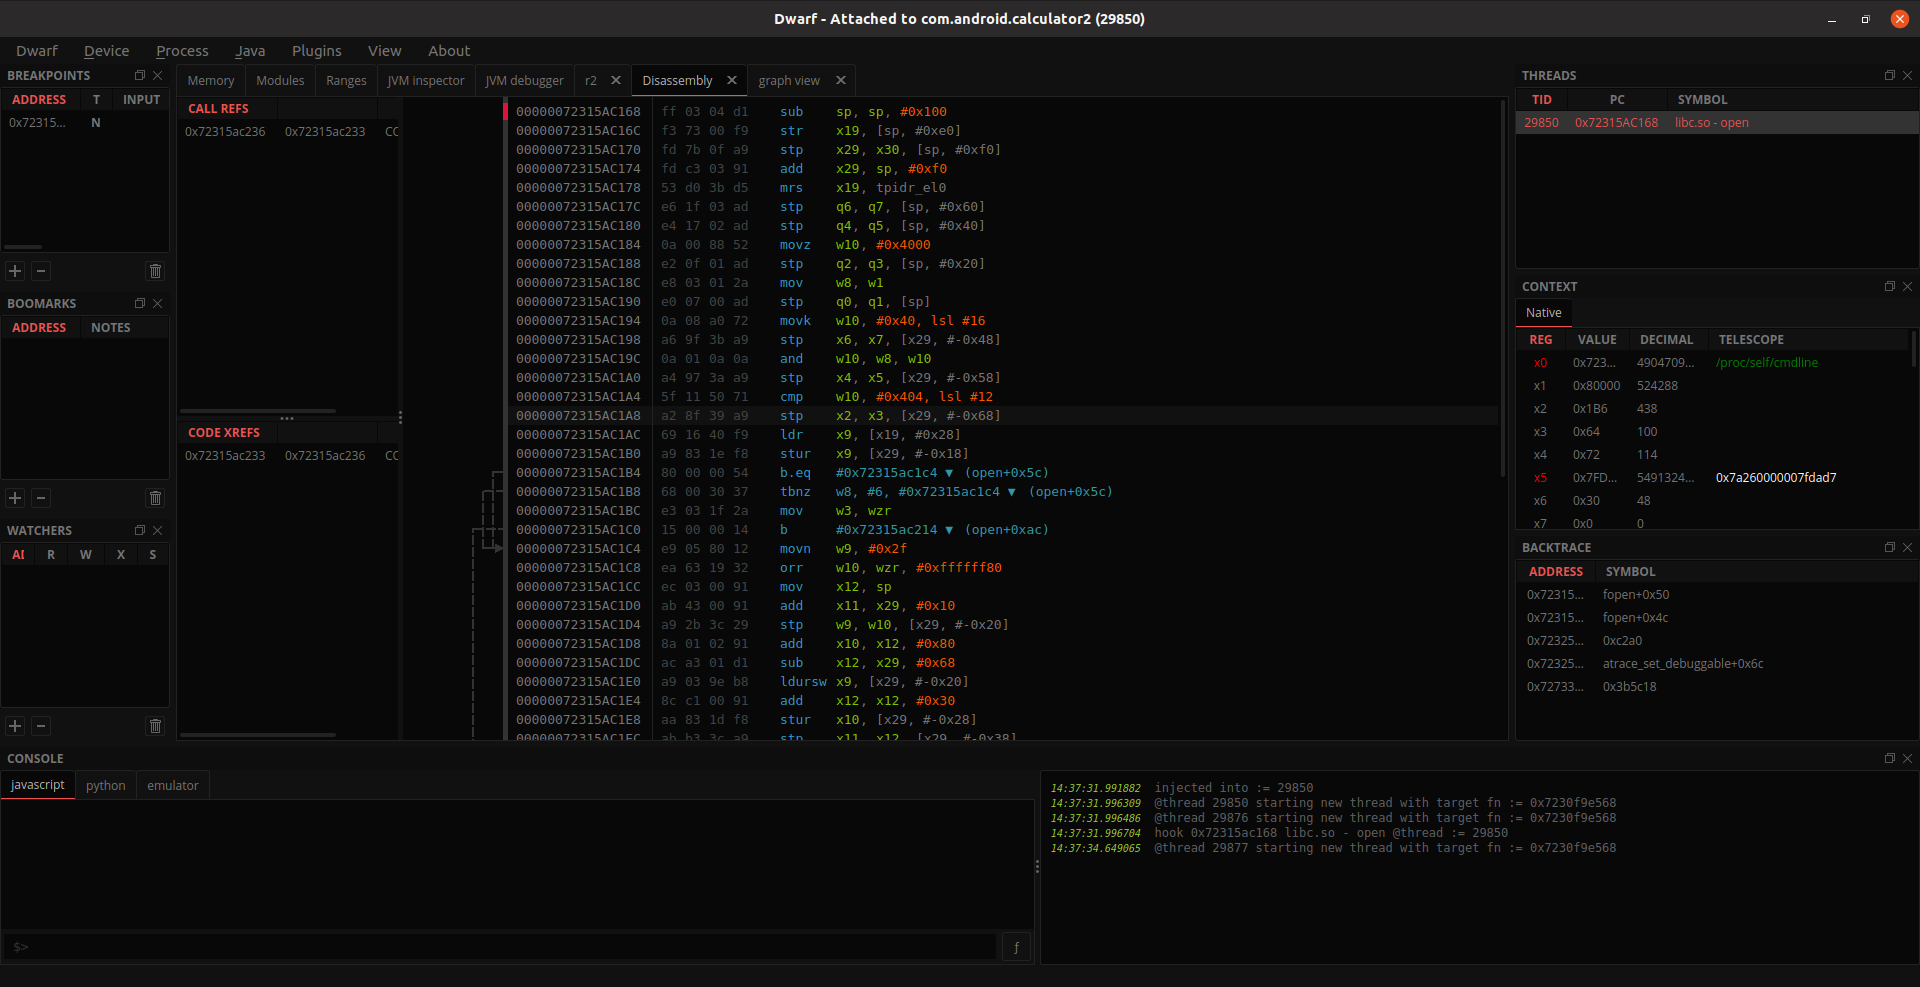
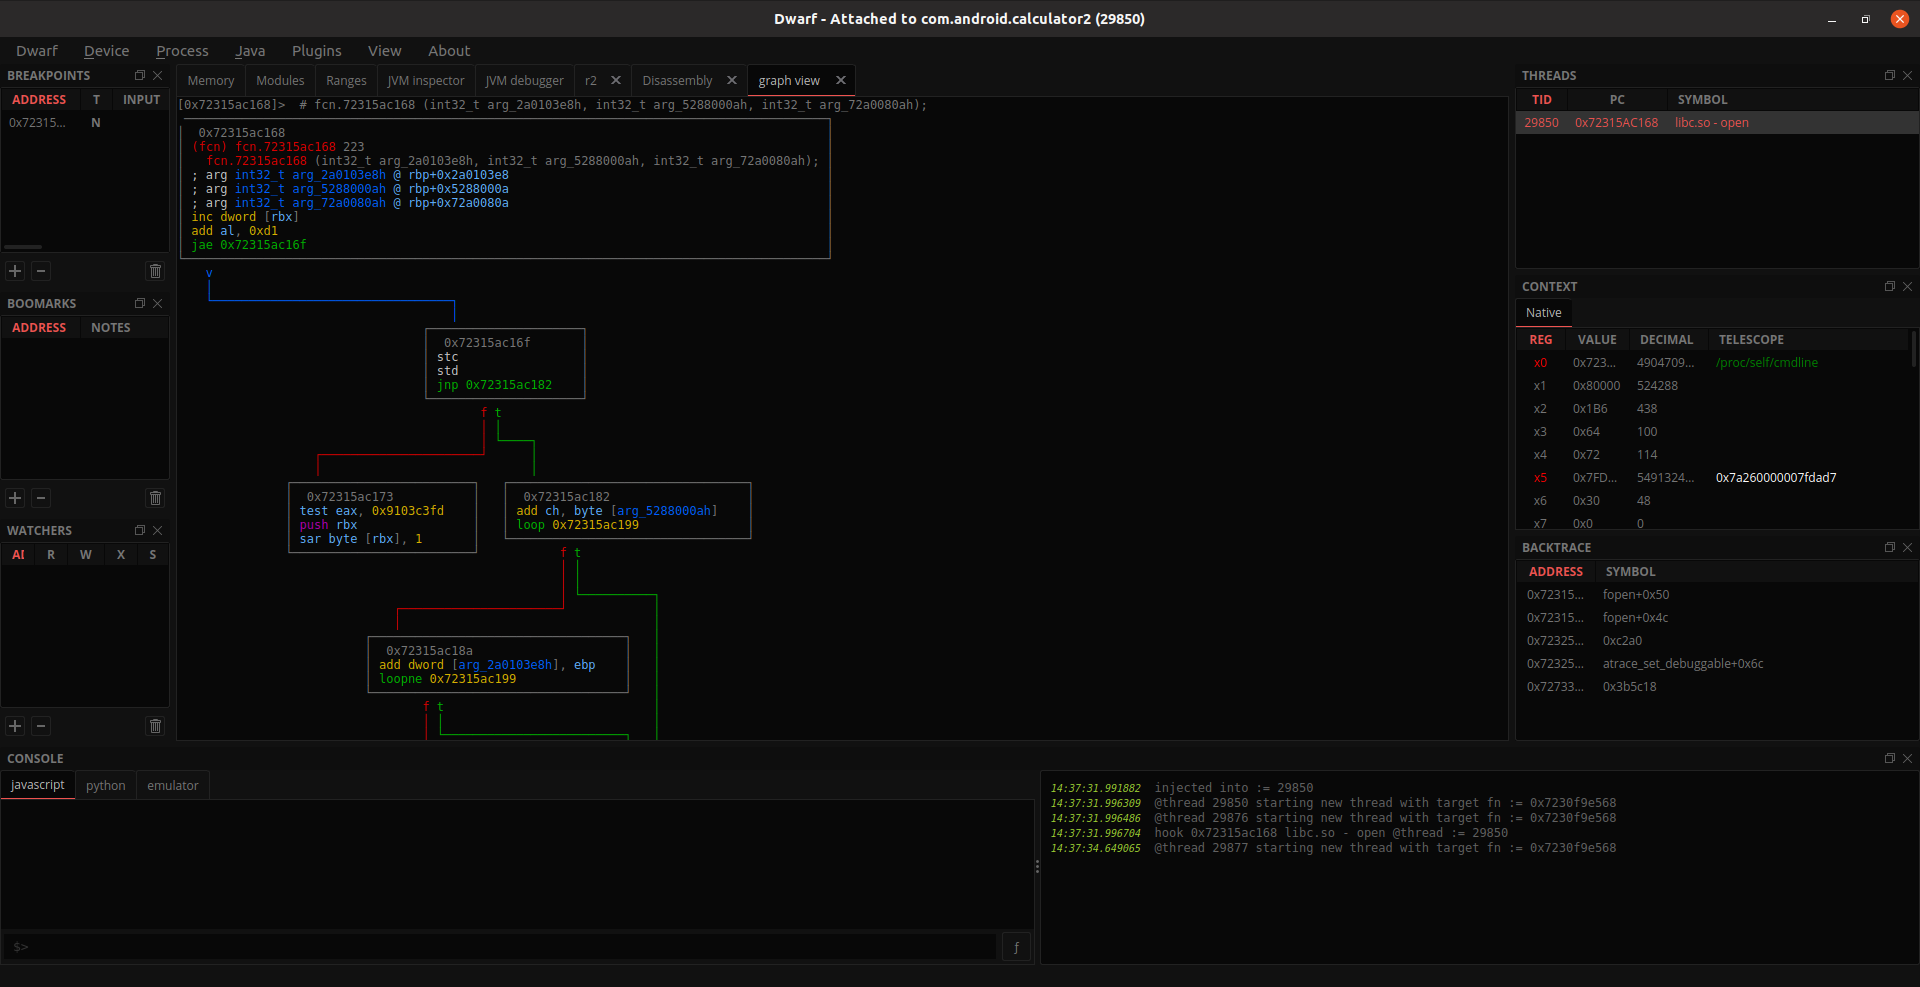
update readme

Changed region(s): [[0.0938, 0.0608, 0.5625, 0.7599], [0.0938, 0.3951, 0.2188, 0.5471], [0.0938, 0.7295, 0.1562, 0.7599]]

diff --git a/README.md b/README.md
@@ -1,6 +1,10 @@
 ## r2dwarf
 
-integrate r2/r2frida into dwarf
+integrate r2/r2frida into dwarf.
+
+Once installed, a new tab "r2" will appear in the main tabs.
+
+In the disasm view, you can right click to display graph and decompiler
 
 ### Installation
 
@@ -26,8 +30,6 @@ r2pm -ci r2dec
 ![Alt text](/screenshots/1.png?raw=true "1")
 
 ![Alt text](/screenshots/2.png?raw=true "2")
-
-![Alt text](/screenshots/3.png?raw=true "3")
 
 ```
 Dwarf - Copyright (C) 2019 Giovanni Rocca (iGio90)
